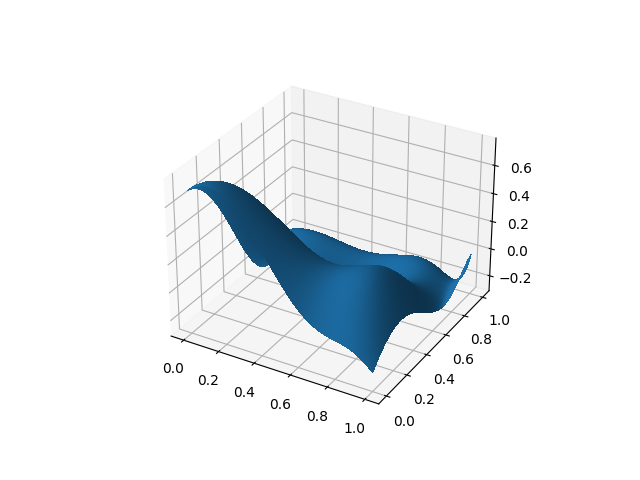
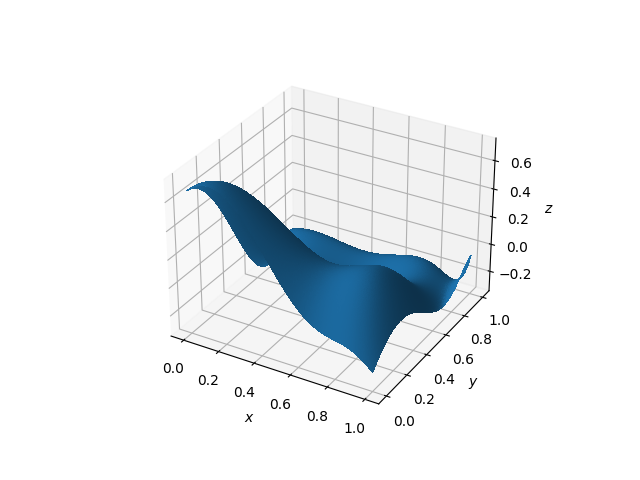
Added labels to 3d plots

diff --git a/src/franke_results/franke_predict.py b/src/franke_results/franke_predict.py
@@ -39,6 +39,9 @@ ax = fig.gca(projection='3d')
 
 def plot(X, y, ax, title):
     ax.plot_trisurf(X[:,1], X[:,2], y, linewidth=0, antialiased=False)
+    ax.set_xlabel('$x$')
+    ax.set_ylabel('$y$')
+    ax.set_zlabel('$z$')
     plt.savefig(os.path.join(out_dir, title))
     plt.cla()
     
